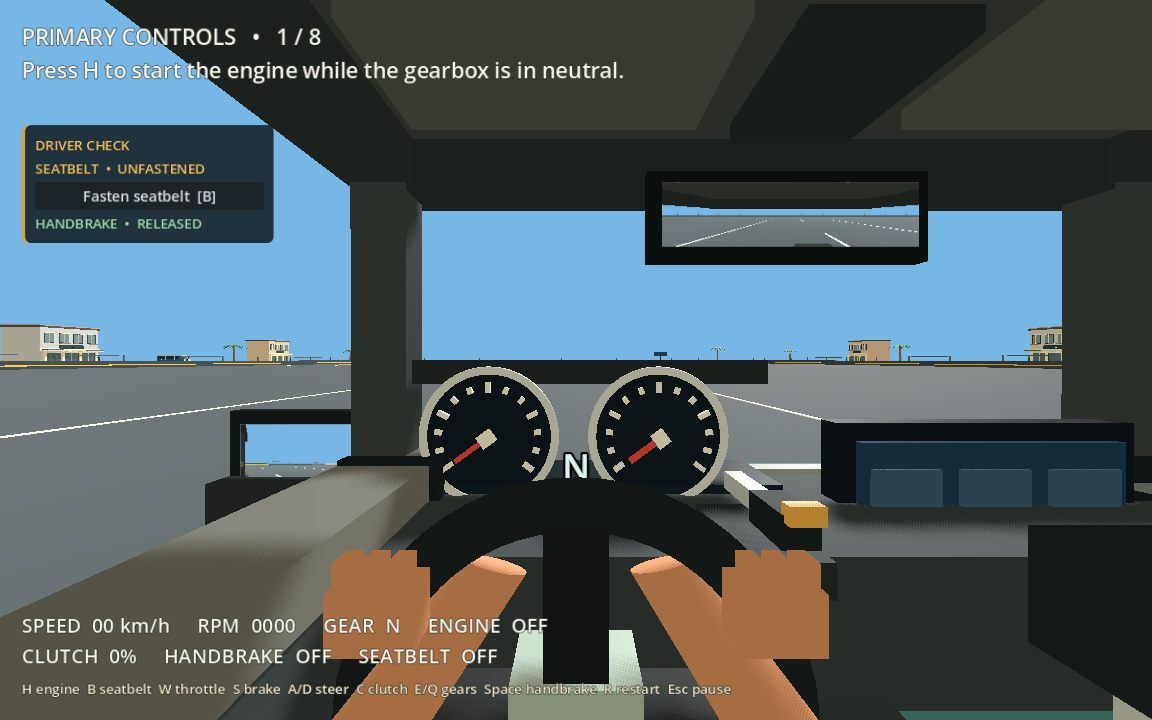
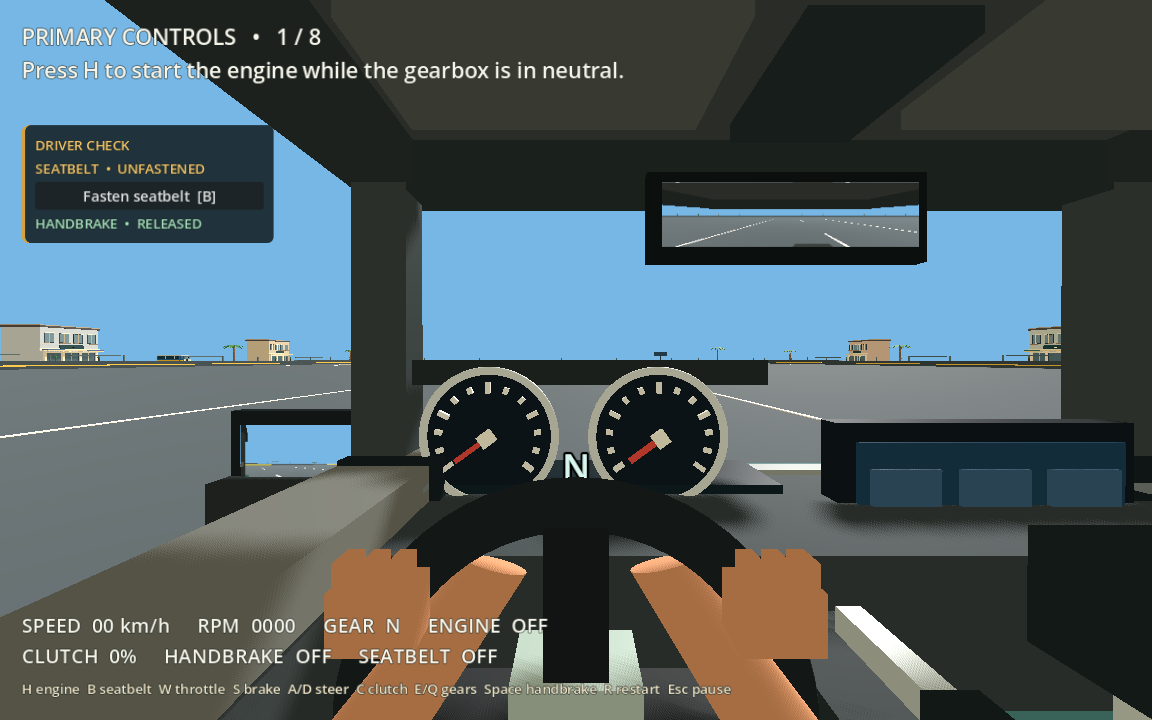
Move handbrake beside wheel and animate control reaches

Changed region(s): [[0.6875, 0.825, 0.875, 1.0], [0.5938, 0.6417, 0.7188, 0.7944]]

diff --git a/README.md b/README.md
@@ -14,7 +14,7 @@ The engine and road WAVs have complete loop ranges. The engine loop starts with 
 
 When a shift is rejected, the engine stalls, or an ignition attempt is blocked, a short-lived toast appears at the upper right with the corrective action. The event remains in the attempt's "What happened" review. See the [toast in the cockpit](docs/screenshots/error_toast.png).
 
-The upper-left driver check reminds you whether the seatbelt is fastened and the handbrake is applied. Press **B** to toggle the seatbelt while driving. Its button is also clickable while paused, when the cursor is already visible. Holding **Space** applies the handbrake and raises the lever on the driver's right side of the center console. See the [released](docs/screenshots/driver_check_released.png) and [applied](docs/screenshots/driver_check_applied.png) views. The seatbelt is a practice control and indicator; it does not yet change crash physics or the lesson result.
+The upper-left driver check reminds you whether the seatbelt is fastened and the handbrake is applied. Press **B** to toggle the seatbelt while driving. Its button is also clickable while paused, when the cursor is already visible. Either action gives the right arm a small seatbelt reach. Holding **Space** applies the handbrake and raises the lever beside the steering wheel; the right hand briefly reaches for it on application and release. See the [released](docs/screenshots/driver_check_released.png) and [applied](docs/screenshots/driver_check_applied.png) views. The seatbelt is a practice control and indicator; it does not yet change crash physics or the lesson result.
 
 | Action | Keyboard and mouse |
 |---|---|
@@ -53,6 +53,6 @@ The next course milestone is Secondary Controls. First finish an exported-app sa
 - `tests/audio_playback.gd` passed: both two-second WAV loops were still playing after 3.2 seconds, and the volume setting muted and restored both players. A graphical macOS audio probe measured a live signal on the Master bus after the loop fix; an audible check by the user on their chosen output device remains useful.
 - `tests/training_lot.gd` passed: four collidable boundary walls surround the lot, the sedan starts in the clear launch lane, and 17 collidable cones populate the practice area. A native Metal-rendered cockpit and overhead map were inspected and saved in `docs/screenshots/`.
 - The full-lesson flow check verifies the right-side toast for rejected shifts, stalls, and blocked starts, its timed dismissal, and its removal after a successful restart. The toast was also visually checked in a native Metal render.
-- The same flow check verifies B-key and button seatbelt toggles, the upper-left handbrake reminder, and raised/released lever positions. Both cockpit states were visually inspected in native Metal renders.
+- The same flow check verifies B-key and button seatbelt toggles, their short arm reach, the upper-left handbrake reminder, and the handbrake reach and lever positions. Both cockpit states were visually inspected in native Metal renders.
 - The earlier release export rebuilt and launched on macOS 26.3.1 (Apple M4 Pro). Its course selection, briefing, straight-ahead first-person view, animated hands, and RPM readout were visually checked in the exported app. Full-resolution lesson and roundabout-map captures were saved. The complete driven run was verified by the scripted Godot check; the roundabout has not yet had a manual exported-app driving playthrough.
 - Persistence was verified with a temporary save override; normal exported-app save/relaunch remains unverified. No physical controller or wheel has been tested. Restricted command-line Godot prints a macOS system-certificate access error and may fail to save global editor settings, despite successful project checks and export.

diff --git a/docs/AGENT_IMPLEMENTATION.md b/docs/AGENT_IMPLEMENTATION.md
@@ -4,7 +4,7 @@
 
 Build Maniubra incrementally: a presentable, first-person manual-driving simulator for one player on macOS. Delivery is ASAP. The full product scope remains in `PROTOTYPE_PLAN.md`; complete a small course end to end before expanding the world.
 
-Implemented now: four-course menu, nine individual maneuver entries, and a playable Primary Controls lesson in a first-person, left-hand-drive manual sedan. Its eight-step enclosed-lot exercise has timestamped feedback, upper-right corrective error toasts for rejected shifts, stalls, and blocked starts, pause/restart/exit, local five-attempt history, original stylized roofed cockpit/road geometry, rear and side mirror views, synthetic audio, and a local macOS export. The sedan now has animated steering and shifting hands, H-key ignition, a B-key and clickable seatbelt toggle, an animated handbrake lever on the driver-side console, low-speed clutch/brake stalling with engine shutdown, stronger propulsion, approximate RPM, tighter suspension, and a camera stabilized against body roll. An upper-left driver check shows seatbelt and handbrake state; the seatbelt is currently a practice indicator, not a scored safety rule. The 160 × 240 m enclosed practice lot has a clear launch lane, painted parking bays, a cone slalom with 17 physical cones, and a circular practice loop. Reusable original 3D shopfront, palm, jeepney, and tricycle scenes sit beyond the walls. The road-user vehicles here are static scenery, and the roundabout is not yet an assessed maneuver. Course and maneuver selections use generated illustrated cards with accurate availability labels. Start is enabled only for Primary Controls. Secondary Controls, maneuvers, and Open World remain unavailable. Physical controller profiles and a sourced 3D asset collection are not validated or added yet.
+Implemented now: four-course menu, nine individual maneuver entries, and a playable Primary Controls lesson in a first-person, left-hand-drive manual sedan. Its eight-step enclosed-lot exercise has timestamped feedback, upper-right corrective error toasts for rejected shifts, stalls, and blocked starts, pause/restart/exit, local five-attempt history, original stylized roofed cockpit/road geometry, rear and side mirror views, synthetic audio, and a local macOS export. The sedan now has animated steering and shifting hands, H-key ignition, a B-key and clickable seatbelt toggle with a small arm reach, an animated handbrake lever beside the steering wheel with a brief hand reach on application and release, low-speed clutch/brake stalling with engine shutdown, stronger propulsion, approximate RPM, tighter suspension, and a camera stabilized against body roll. An upper-left driver check shows seatbelt and handbrake state; the seatbelt is currently a practice indicator, not a scored safety rule. The 160 × 240 m enclosed practice lot has a clear launch lane, painted parking bays, a cone slalom with 17 physical cones, and a circular practice loop. Reusable original 3D shopfront, palm, jeepney, and tricycle scenes sit beyond the walls. The road-user vehicles here are static scenery, and the roundabout is not yet an assessed maneuver. Course and maneuver selections use generated illustrated cards with accurate availability labels. Start is enabled only for Primary Controls. Secondary Controls, maneuvers, and Open World remain unavailable. Physical controller profiles and a sourced 3D asset collection are not validated or added yet.
 
 The sedan now sits lower on its wheels. A flat-road regression check keeps ordinary full-lock cornering planted and still permits rollover at high speed; inspect handling in a manually driven exported-app run before treating the tune as final.
 

diff --git a/docs/ARCHITECTURE.md b/docs/ARCHITECTURE.md
@@ -88,7 +88,7 @@ Input and transmission are small scripts owned by the vehicle, with focused chec
 
 Create folders as files are added. Current audio lives in `assets/audio/`, course-card concept illustrations in `assets/ui/course_art/`, and all first-course 3D geometry is generated by scripts. The reusable shopfront, stall, palm, streetlamp, jeepney, and tricycle scenes in `scenes/props/` are visual only; traffic cones are physical obstacles. Keep external license files with future sourced assets and maintain `assets/ASSET_REGISTER.md`. Store editable custom sources separately from optimized Godot imports when needed.
 
-The cockpit must support the driver's actual eye position, clear windshield sight lines, instrument visibility, moving controls, and useful mirrors. The current camera follows the driver seat each rendered frame while filtering body roll and pitch; the procedural hands follow steering and a timed shift reach. The raised wheel mounts keep the chassis and center of gravity lower, while wheel roll influence permits rollover only under a severe full-lock turn in the flat-road test. The circular loop is traversable layout in the enclosed Primary Controls lot, with no rule evaluation yet. External car models are not automatically suitable player vehicles. Profile this view on the Mac before buying or building a large environment.
+The cockpit must support the driver's actual eye position, clear windshield sight lines, instrument visibility, moving controls, and useful mirrors. The current camera follows the driver seat each rendered frame while filtering body roll and pitch; the procedural hands follow steering, timed shift and handbrake reaches, and a small seatbelt reach. The handbrake lever sits beside the steering wheel, below the gauges. The raised wheel mounts keep the chassis and center of gravity lower, while wheel roll influence permits rollover only under a severe full-lock turn in the flat-road test. The circular loop is traversable layout in the enclosed Primary Controls lot, with no rule evaluation yet. External car models are not automatically suitable player vehicles. Profile this view on the Mac before buying or building a large environment.
 
 ## First playable milestone status
 

diff --git a/PROTOTYPE_PLAN.md b/PROTOTYPE_PLAN.md
@@ -2,7 +2,7 @@
 
 Planning baseline: 6 October 2026. This is a proposed implementation plan, not a claim that the features already exist.
 
-Implementation update: the four-course menu launches an eight-step first-person Primary Controls lesson in an enclosed 160 × 240 m driving-school lot. The manual sedan has H-key ignition, a B-key/clickable seatbelt practice control, an animated handbrake lever on the driver-side console, low-speed engine stalling that shuts off propulsion and audio, animated hands, RPM feedback, and an appropriately stable cockpit camera. The lot has a clear launch lane, parking bays, 17 physical traffic cones, and a circular practice loop, with Philippine-inspired scenery beyond its walls. Local attempt history records stalls and shift errors; other lessons remain unavailable. See `README.md`, `docs/ARCHITECTURE.md`, and `docs/AGENT_IMPLEMENTATION.md` for current implementation and verification. The connection-check section below records the earlier pre-scaffold state.
+Implementation update: the four-course menu launches an eight-step first-person Primary Controls lesson in an enclosed 160 × 240 m driving-school lot. The manual sedan has H-key ignition, a B-key/clickable seatbelt practice control with a subtle arm reach, an animated handbrake lever beside the steering wheel with a brief right-hand reach, low-speed engine stalling that shuts off propulsion and audio, animated hands, RPM feedback, and an appropriately stable cockpit camera. The lot has a clear launch lane, parking bays, 17 physical traffic cones, and a circular practice loop, with Philippine-inspired scenery beyond its walls. Local attempt history records stalls and shift errors; other lessons remain unavailable. See `README.md`, `docs/ARCHITECTURE.md`, and `docs/AGENT_IMPLEMENTATION.md` for current implementation and verification. The connection-check section below records the earlier pre-scaffold state.
 
 ## Goal and scope
 

diff --git a/assets/ASSET_REGISTER.md b/assets/ASSET_REGISTER.md
@@ -4,7 +4,7 @@ The playable Primary Controls course uses project-created geometry and audio. Th
 
 | Asset | Creator and source | License / use | Notes |
 |---|---|---|---|
-| Sedan exterior and cockpit | Maniubra prototype, `scripts/sedan.gd` | Original project work | Procedural Godot meshes/materials, including full roof shell, headliner, windshield header, wheel, dashboard, seats, hood, mirrors, animated hand/arm visuals, and a moving handbrake lever on the driver-side console. |
+| Sedan exterior and cockpit | Maniubra prototype, `scripts/sedan.gd` | Original project work | Procedural Godot meshes/materials, including full roof shell, headliner, windshield header, wheel, dashboard, seats, hood, mirrors, animated hand/arm visuals for steering, shifts, handbrake and seatbelt, and a moving handbrake lever beside the steering wheel. |
 | Streetscape kit | Maniubra prototype, `scripts/props/city_prop.gd` and `scenes/props/` | Original project work | Reusable Godot 3D scenes for sari-sari/shopfront façades, streetlamps, produce stalls with umbrellas, palms, a jeepney, and a tricycle. These are static visual props; traffic behavior is not implemented. |
 | Primary Controls training lot | Maniubra prototype, `scripts/primary_controls.gd` and `scripts/props/traffic_cone.gd` | Original project work | Enclosed 160 × 240 m lot, markings, parking bays, circular practice loop, lighting, and 17 reusable physical orange-and-white cones. The playable lesson has eight control steps. |
 | Engine and road loops | Maniubra prototype, `tools/generate_audio.py` | Original project work | Synthetic WAV files generated from source code. These are prototype sounds, not recordings of a specific vehicle. |
